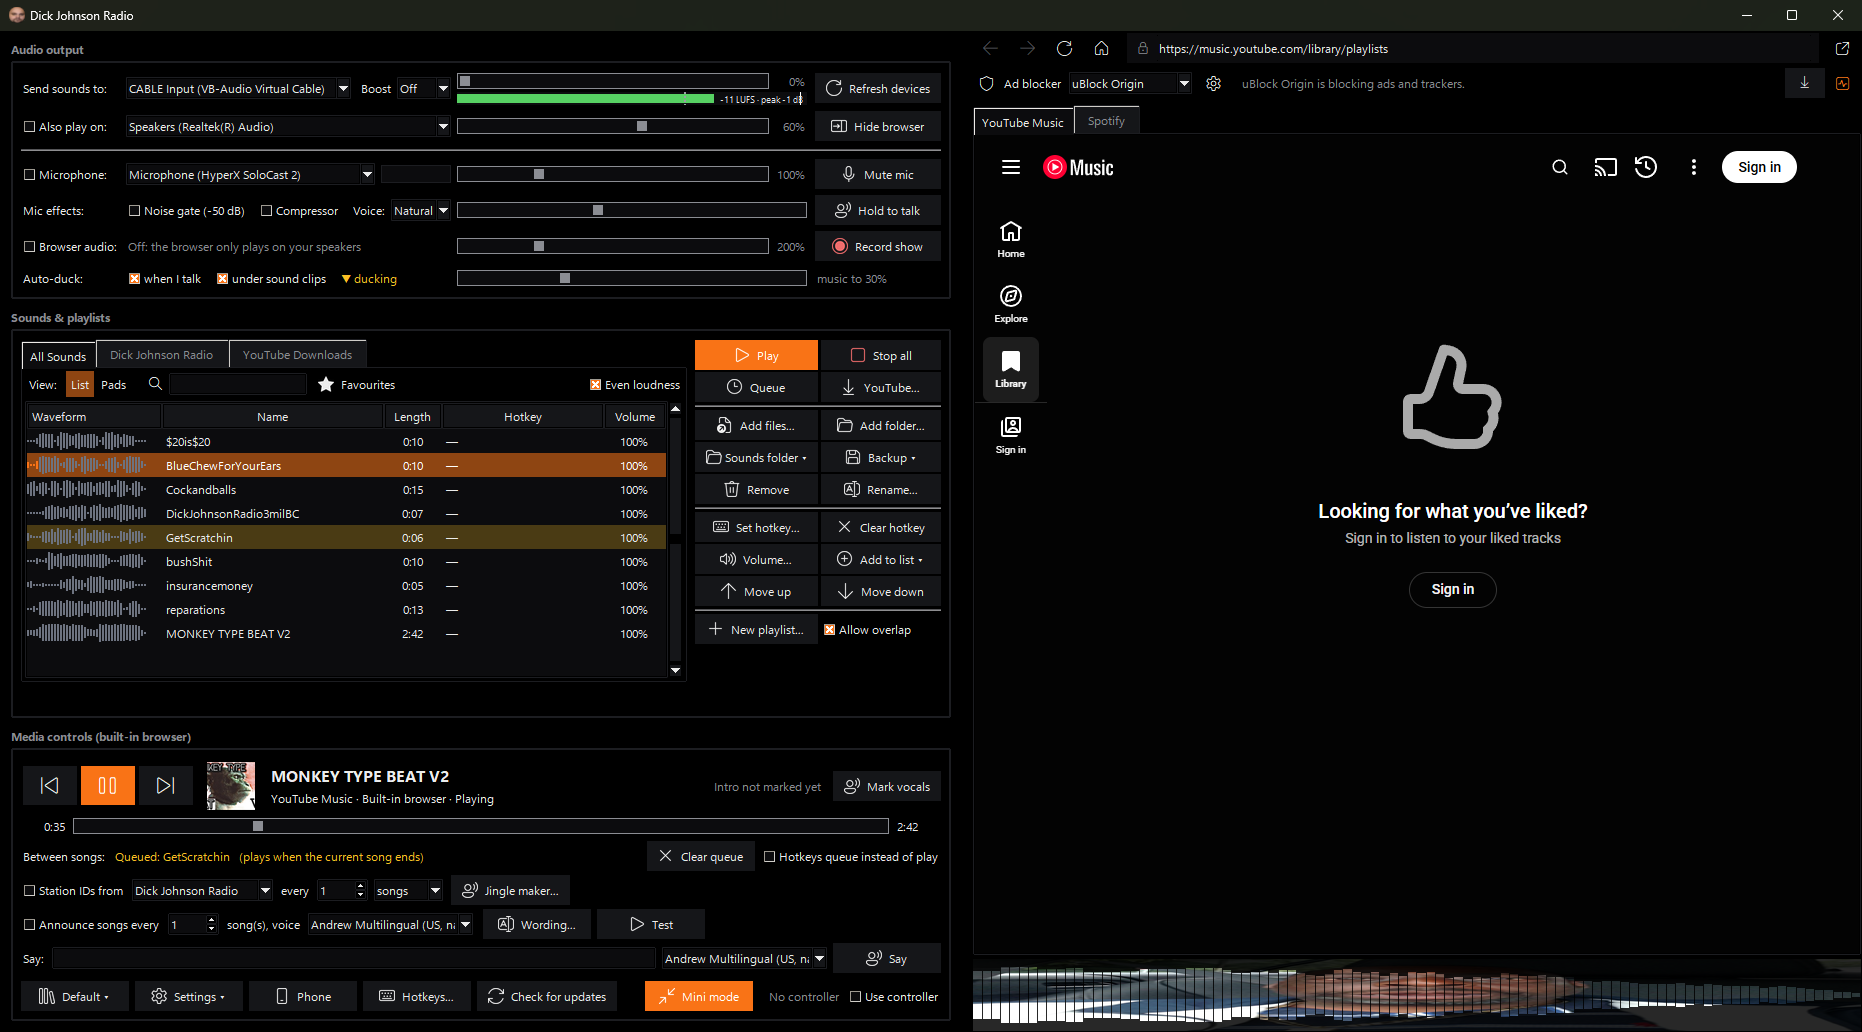
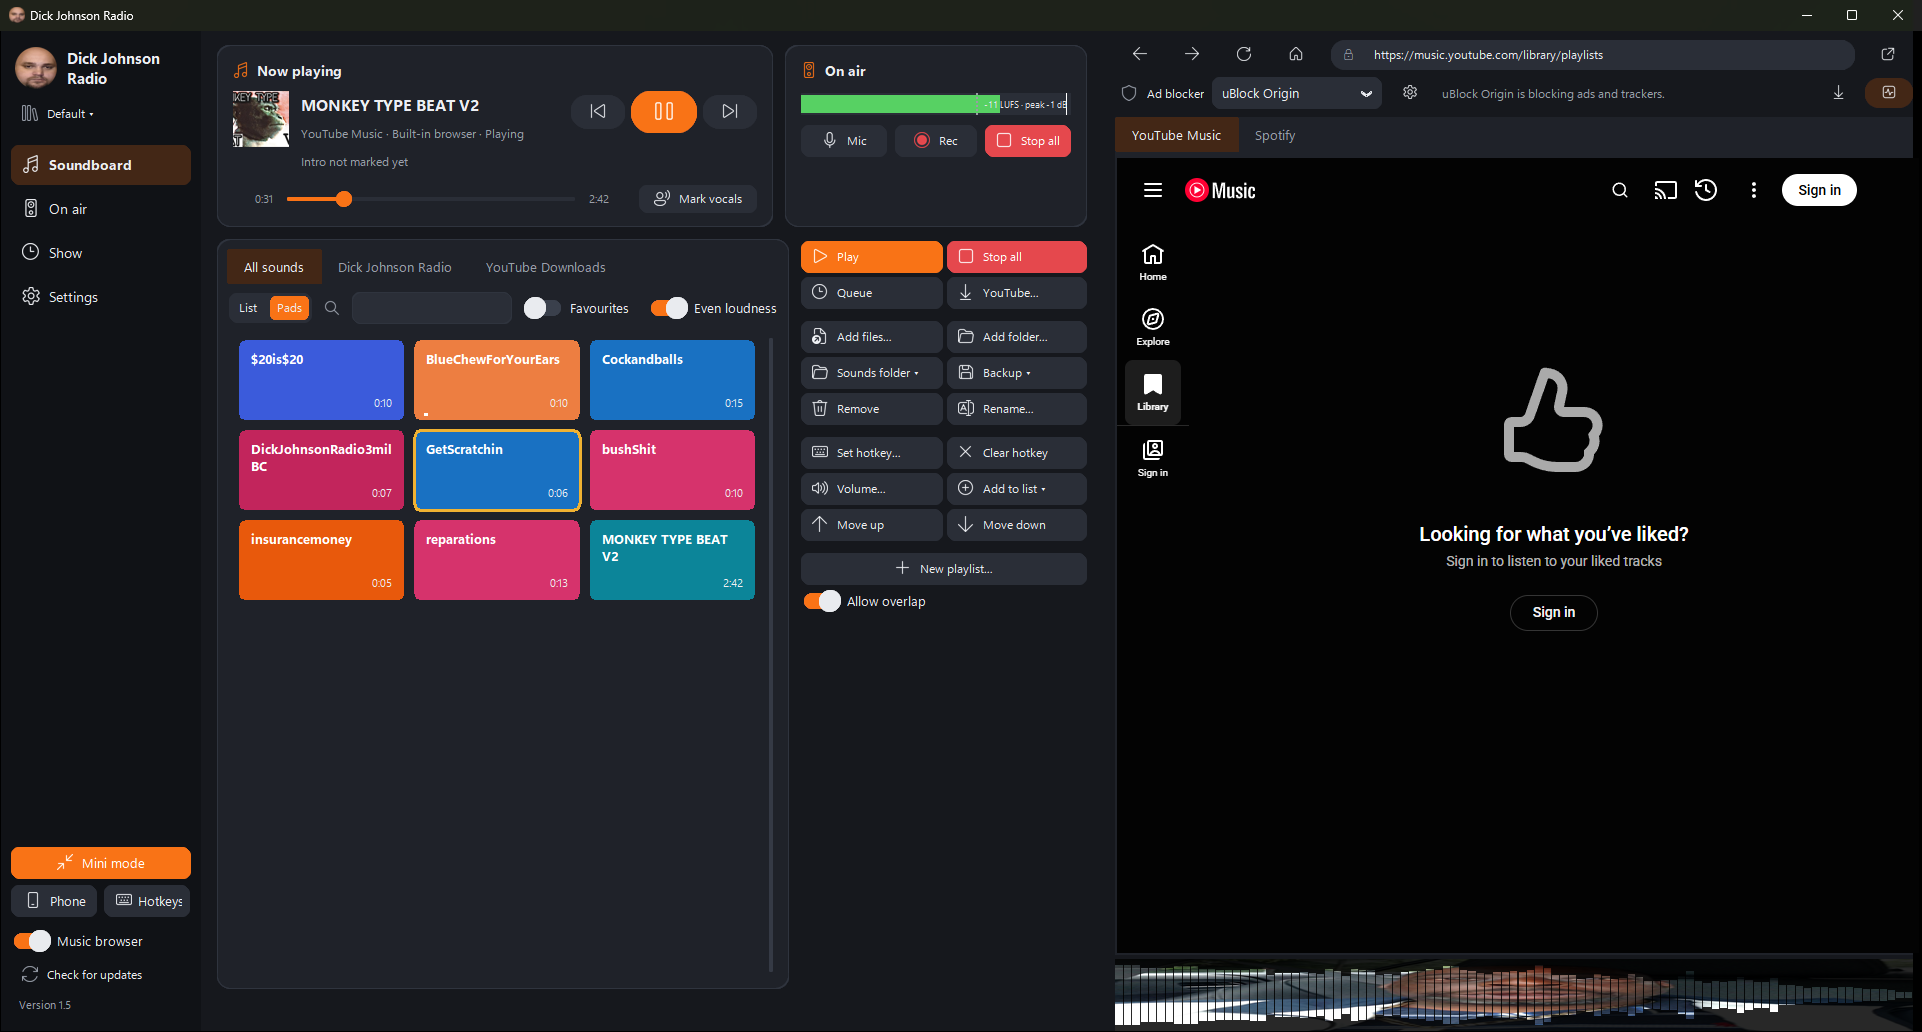
README for 1.5: new-look screenshots, outdated wording removed

diff --git a/README.md b/README.md
@@ -17,14 +17,18 @@
 ## Screenshots
 
 <p align="center">
-  <img src="screenshots/main-window.png" alt="Main window: soundboard, on-air controls and the built-in YouTube Music browser (AMOLED theme)">
-  <br><sub>Soundboard, on-air controls and the built-in YouTube Music browser (AMOLED theme)</sub>
+  <img src="screenshots/main-window.png" alt="The Soundboard page: colour pads, now playing, the on-air meter and the built-in YouTube Music browser">
+  <br><sub>The Soundboard page, with now playing, the on-air meter and the built-in YouTube Music browser</sub>
 </p>
 
 <table>
   <tr>
-    <td width="50%"><img src="screenshots/pad-view.png" alt="Pad view"><br><sub>Pad view: big colour pads, click to play</sub></td>
-    <td width="50%"><img src="screenshots/light-theme.png" alt="Light theme"><br><sub>Light theme</sub></td>
+    <td width="50%"><img src="screenshots/on-air.png" alt="On air page"><br><sub><b>On air</b>: cable output and boost, speakers, mic, voice effects, talk and Game PTT</sub></td>
+    <td width="50%"><img src="screenshots/show.png" alt="Show page"><br><sub><b>Show</b>: between-songs queue, station IDs, announcements, type-to-talk</sub></td>
+  </tr>
+  <tr>
+    <td><img src="screenshots/light-theme.png" alt="Light theme"><br><sub>Light theme, list view with waveforms</sub></td>
+    <td><img src="screenshots/settings.png" alt="Settings page"><br><sub><b>Settings</b>: theme, accent colour, size, and which features are shown (AMOLED black theme)</sub></td>
   </tr>
   <tr>
     <td align="center"><img src="screenshots/mini-mode.png" alt="Mini mode"><br><sub>Mini mode: a small always-on-top remote</sub></td>
@@ -74,8 +78,8 @@
 ### Everything else
 - **Record your show** to MP3 (everything going out through the cable)
 - **Mini mode**: a small always-on-top remote with your favourite pads
-- **Themes**: light, dark or **AMOLED black**, any accent colour, normal or compact spacing
-- **Your layout**: right-click any section for its settings or to hide it; every hotkey in one **Hotkeys…** window, or right-click a button to set its own
+- **Modern look**: a sidebar with Soundboard, On air, Show and Settings pages; light, dark or **AMOLED black** themes with any accent colour, and a size setting (90 to 125%)
+- **Your layout**: show or hide any feature (Settings, or right-click a card's title); every hotkey in one **Hotkeys** window, or right-click a button to set its own
 - **System tray** icon with quick controls, and an option to keep running in the tray when you close the window
 - **Phone remote**: control the show from your phone's browser over your Wi-Fi (pads, now playing, mic, hold to talk, type-to-talk, recording, boost). Scan a QR code, PIN-protected, home network only
 - **Cable boost** up to +18 dB with a limiter, and per-source sliders up to 800%, so the browser can be quiet on your speakers but loud on the cable
@@ -98,7 +102,7 @@ No Python or anything else to install. It's all inside the app.
 
 ## Install
 
-### Option A: installer (recommended)
+### Option 1: installer (recommended)
 
 1. Download **`Dick-Johnson-Radio-Setup.zip`** from the [latest release](https://github.com/JickDohnson/Dick-Johnson-Radio-Public/releases/latest) (about 110 MB).
 2. Unzip it and run **`Dick-Johnson-Radio-Setup.exe`**.
@@ -106,9 +110,9 @@ No Python or anything else to install. It's all inside the app.
 
 Uninstall it any time from **Settings → Apps → Installed apps**. You choose whether your settings and sounds are kept.
 
-### Option B: just the exe (no install)
+### Option 2: just the exe (no install)
 
-1. Download **`Dick-Johnson-Radio.exe`** from the [latest release](https://github.com/JickDohnson/Dick-Johnson-Radio-Public/releases/latest) (about 90 MB).
+1. Download **`Dick-Johnson-Radio.exe`** from the [latest release](https://github.com/JickDohnson/Dick-Johnson-Radio-Public/releases/latest) (about 95 MB).
 2. Put it in a folder you can write to, for example `Documents\Dick Johnson Radio`. Not `Program Files`.
 3. Double-click it. The first launch takes about 20 seconds while it sets up the folder (settings, browser data, ad blocker).
 
@@ -118,21 +122,21 @@ Either way, everything the app saves lives in its own folder, so you can move or
 
 ## Phone remote
 
-Click **Phone** at the bottom of the window and switch it on. Scan the QR code with your phone's camera (the phone must be on the same Wi-Fi as the PC), or open the address shown in the phone's browser and enter the PIN. The first time, Windows asks whether to allow the app on private networks: click **Allow**. **New PIN** cuts off every phone that's connected. It's only reachable on your own network, never from the internet, and it's off until you switch it on.
+Click **Phone** at the bottom of the sidebar and switch it on. Scan the QR code with your phone's camera (the phone must be on the same Wi-Fi as the PC), or open the address shown in the phone's browser and enter the PIN. The first time, Windows asks whether to allow the app on private networks: click **Allow**. **New PIN** cuts off every phone that's connected. It's only reachable on your own network, never from the internet, and it's off until you switch it on.
 
 ## Updates
 
-From version 1.1, the app updates itself, whether it was installed or run as a plain exe. It checks once a day, or when you click **Check for updates** at the bottom of the window. When a new version is out, that button becomes **Update to x.y**. The download is checked against GitHub's published checksum, and it installs on restart or when you close the app. Your settings, sounds and logins are kept.
+From version 1.1, the app updates itself, whether it was installed or run as a plain exe. It checks once a day, or when you click **Check for updates** at the bottom of the sidebar. When a new version is out, that button becomes **Update to x.y**. The download is checked against GitHub's published checksum, and it installs on restart or when you close the app. Your settings, sounds and logins are kept.
 
 On 1.0? Download the latest exe once by hand and put it in place of the old one. After that, updates are automatic.
 
 ## First-time setup
 
-1. **Send sounds to:** pick **CABLE Input (VB-Audio Virtual Cable)**. In Discord, OBS or similar, set your microphone to **CABLE Output**.
-2. **Also play on:** tick this and pick your speakers or headphones so you hear the sounds too.
-3. **Microphone:** tick it to send your real mic through the cable as well, with optional effects.
-4. **Browser audio:** tick it to send YouTube Music / Spotify through the cable.
-5. Add sounds with **Add files…**, **Add folder…**, **YouTube…**, or by dropping files into the `sounds` folder.
+1. Open the **On air** page. Under **Output to the cable**, set **Send to** to **CABLE Input (VB-Audio Virtual Cable)**. In Discord, OBS or similar, set your microphone to **CABLE Output**.
+2. **Also play on your speakers:** switch it on and pick your speakers or headphones so you hear the sounds too.
+3. **Microphone:** switch on **Mic into the cable** to send your real mic through the cable as well, with optional voice effects.
+4. **Browser audio:** switch it on to send YouTube Music / Spotify through the cable.
+5. On the **Soundboard** page, add sounds with **Add files…**, **Add folder…**, **YouTube…**, or by dropping files into the `sounds` folder.
 6. Select a sound and click **Set hotkey…**. Press a key combo or a controller button.
 
 Tips: right-click a hotkey button to clear it, right-click the visualizer to change its style or picture, and right-click sounds for favourites, colours and playlists.
@@ -145,7 +149,7 @@ Run the built-in check from a Command Prompt in the app's folder:
 "Dick-Johnson-Radio.exe" --selftest
 ```
 
-This writes `selftest.txt` next to the exe, with OK/FAIL for audio devices, MP3 support, media controls, browser audio capture, the built-in browser, speech, controllers, the YouTube downloader and the bundled files.
+This writes `selftest.txt` next to the exe, with OK/FAIL for audio devices, MP3 support, media controls, the YouTube downloader, the natural voices, the update feed, the phone remote, browser audio capture, the built-in browser, speech, controllers, the icons and the bundled files.
 
 ## Credits
 
@@ -154,6 +158,7 @@ Dick Johnson Radio bundles these open-source projects, unmodified:
 - [uBlock Origin](https://github.com/gorhill/uBlock) by Raymond Hill (GPLv3)
 - [yt-dlp](https://github.com/yt-dlp/yt-dlp) (Unlicense) and [FFmpeg](https://ffmpeg.org/) ([source](https://github.com/FFmpeg/FFmpeg), GPL build via [imageio-ffmpeg](https://github.com/imageio/imageio-ffmpeg))
 - [edge-tts](https://github.com/rany2/edge-tts) for the natural voices
+- [CustomTkinter](https://customtkinter.tomschimansky.com/) for the window
 - [Python](https://www.python.org/), [sounddevice](https://python-sounddevice.readthedocs.io/), [soundfile](https://python-soundfile.readthedocs.io/), [pythonnet](https://pythonnet.github.io/) + Microsoft Edge WebView2, [keyboard](https://github.com/boppreh/keyboard), [hidapi](https://github.com/trezor/cython-hidapi), [Pillow](https://python-pillow.org/), NumPy, comtypes, PyWinRT
 
 Only download and broadcast audio you have the rights to use.
